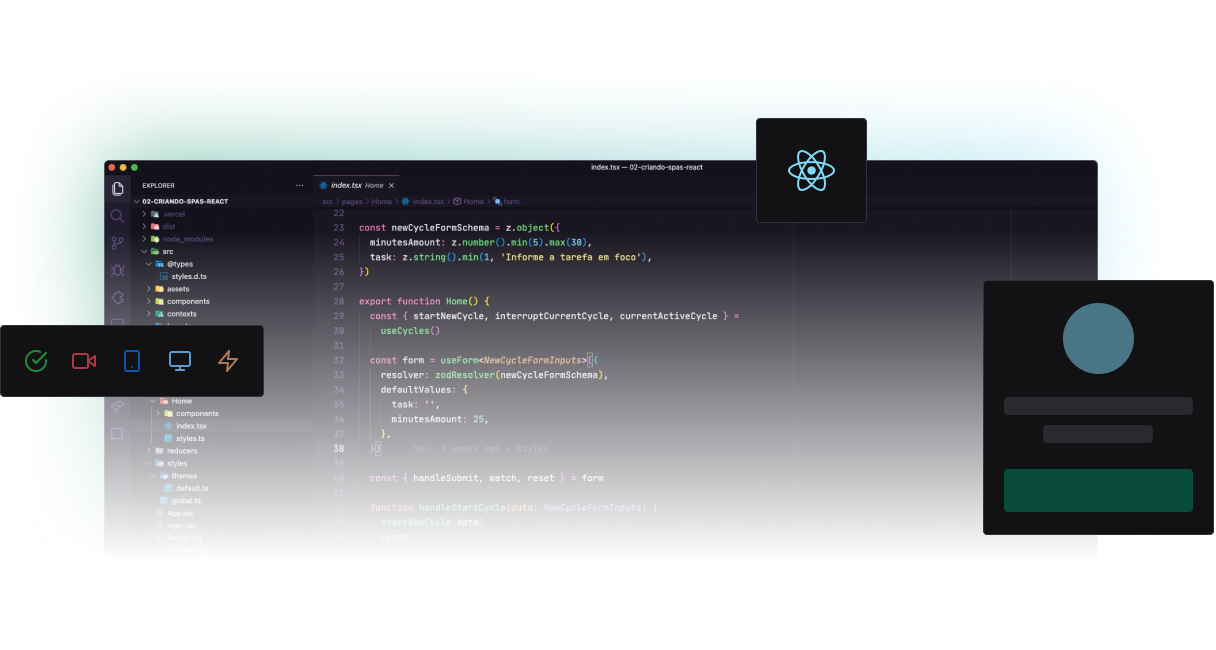
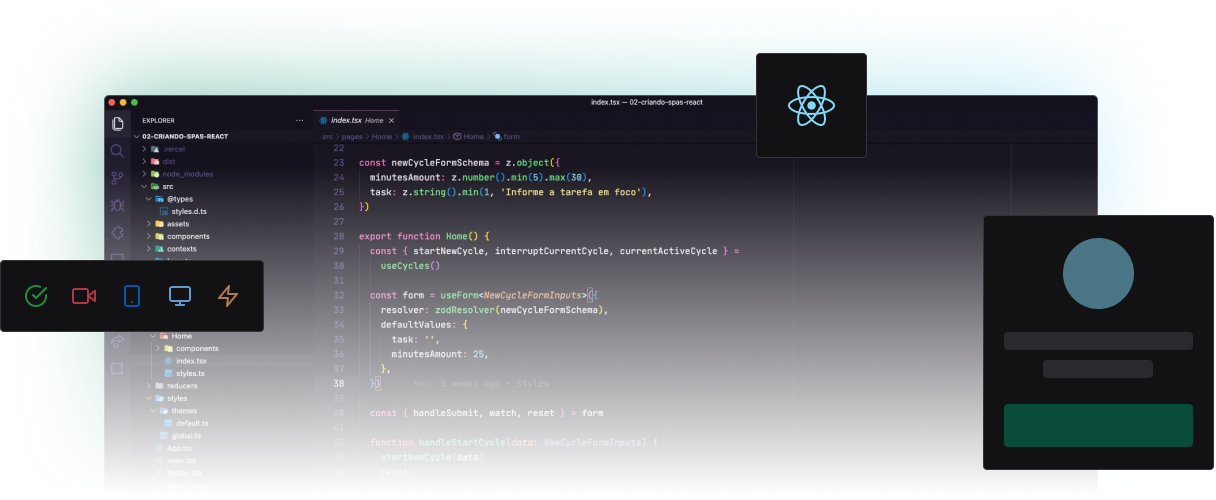
refactor: Ajuste no tamanho e posicionamento da imagem da página Subscribe

diff --git a/src/pages/Subscribe.tsx b/src/pages/Subscribe.tsx
@@ -79,7 +79,7 @@ export function Subscribe() {
         </div>
       </div>
 
-      <img src={imgUrl} alt="code-mockup" className="mt-4 lg:mt-10" />
+      <img src={imgUrl} alt="code-mockup" className="mt-4 lg:mt-4" />
     </div>
   );
 }
